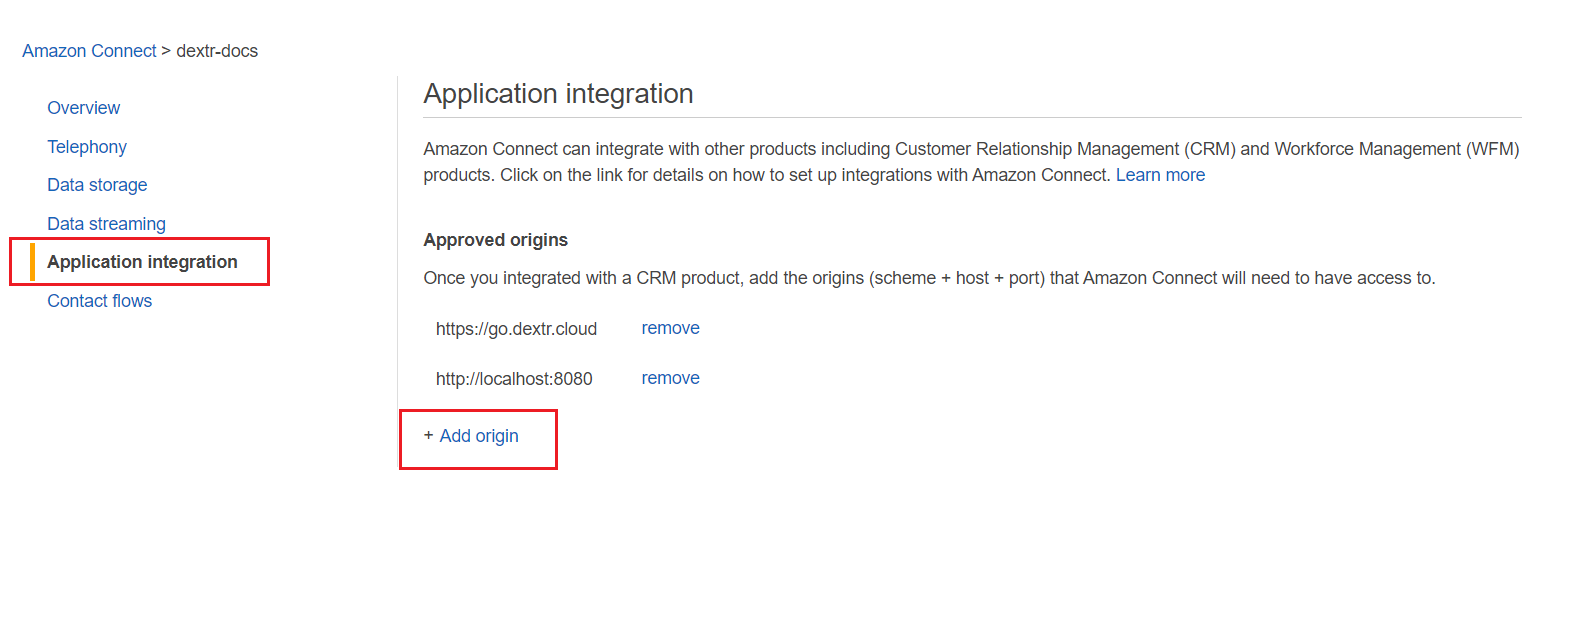
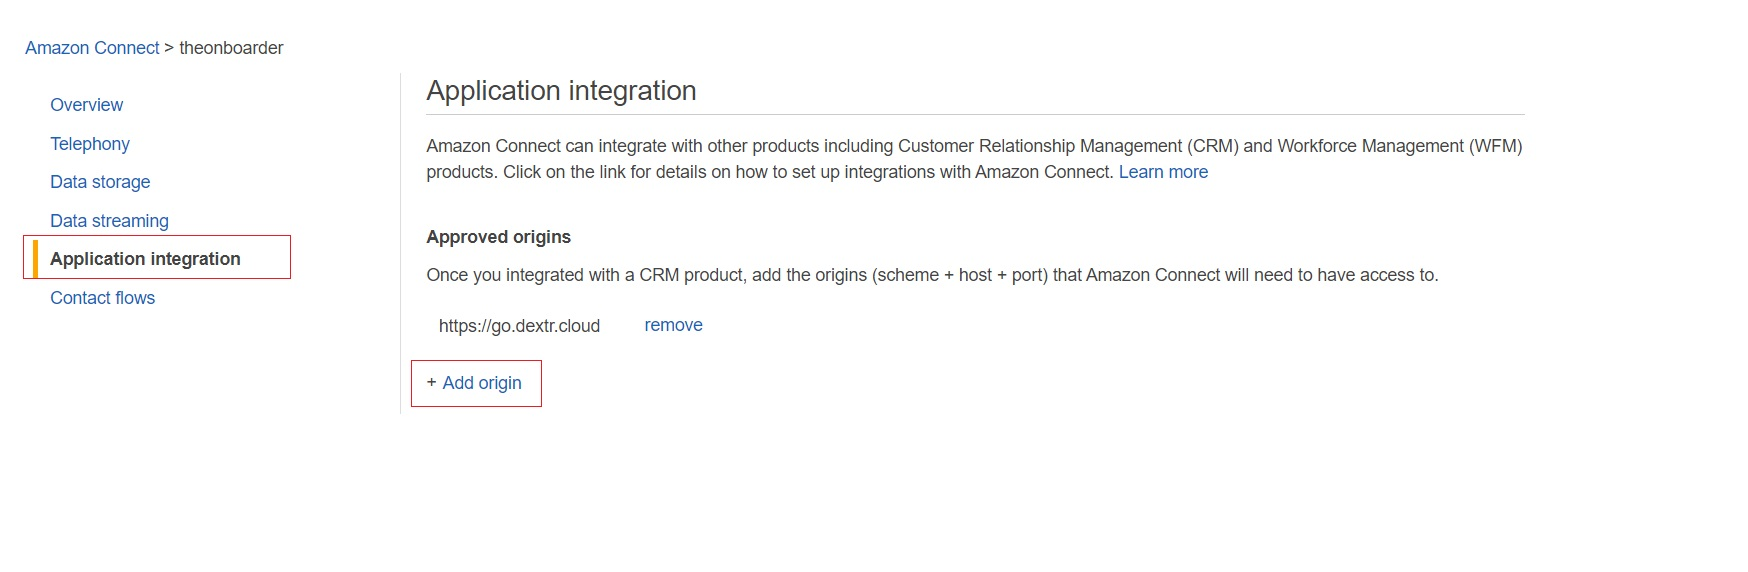
updated onboarding docs

diff --git a/docs/_pages/onboarding.md b/docs/_pages/onboarding.md
@@ -8,116 +8,111 @@ sidebar:
   nav: "docs"
 ---
 
-After your email has been verified, you'll be redirected to the Onboarding portal in order to claim the instance and start your Call Center.
+After your subscription to Dextr, you'll be redirected to the Onboarding portal in order to claim your instance.
 
-[![Onboarding Portal](/assets/images/onboarding-portal.png)](/assets/images/onboarding-portal.png)
+[![Onboarding Portal](/assets/images/newOnboarding.jpg)](/assets/images/newOnboarding.jpg)
 
 ----
-Here, you can see that the Onboarding process consists of 2 steps:
-1. Verify Ownership
-2. Claim instance
+The Onboarding process consists of 5 steps, and the first 3 steps have an ***Explainer video*** that you can watch for guidance.
 
 ### Step 1. Verify Ownership
 
-Verify ownership consists of 2 steps. The first one would be to whitelist https://go.dextr.cloud . The second one is to login in Connect as an administrator.
+Verify ownership requires you to add ***Application integration origin***  and ***Login into Connect as Root Administrator***. Remember to also whitelist https://go.dextr.cloud to allow incoming popups.
 
-#### Step 1.1 - Whitelisting the page
+[![Verify Ownership](/assets/images/verifyOwnership.jpg)](/assets/images/verifyOwnership.jpg)
 
-- When whitelisting dextr.cloud you're allowing incoming popups, which is important since they will be used to claim the instance and use other features. 
+#### Step 1.1 - Application integration
 
-- You also need to add an Approved origin in Amazon Connect. Through the Amazon Web Service console, you can enter Amazon Connect, click the name of your instance and then go to the **Application Integration** tab, in which you can add an approved origin. When the modal window is displayed, type **https://go.dextr.cloud** and click the add button. After a few seconds the origin should be added.
+You require an ***Approved origin*** in Amazon Connect. Through the Amazon Web Service console:
+
+- Go to Amazon Connect and click the name of your instance.
+[![Clicking Instance](/assets/images/clickingInstance.jpg)](/assets/images/clickingInstance.jpg)
+
+- Go to the **Application Integration** tab and click ***Add origin***. Input **https://go.dextr.cloud** and add it.
 
 [![Application Integration](/assets/images/app-integration.png)](/assets/images/app-integration.png)
    
 ----
-#### Step 1.2 - Login in Amazon Connect as Administrator
+#### Step 1.2 - Log into Amazon Connect as Root Administrator
 
-In the Overview tab an option to Login as Administrator will be shown.
+- In the Overview tab, click ***Log in for emergency access***.
 
 [![Login As Administrator](/assets/images/connect-login.png)](/assets/images/connect-login.png)
 
 ----
-After clicking the Login button, if you still haven't claimed a number you'll be redirected to the **Claim Phone Number** section, where you'll need to select a country, type and phone number. For onboarding purposes you can omit the first call process shown through the CCP (Contact Control Panel) but you need to claim a phone number if you want to set up Data Stream during the Claim Instance process in **Step 2**.
+- This will bring you to the **Amazon Connect Dashboard**. If you still haven't claimed a number remember to do so in the **Claim Phone Number** section, where you'll need to select a country, type and phone number. This allows to set Data Streaming later.
 
 [![Claim Phone Number](/assets/images/administrator-first-login.png)](/assets/images/administrator-first-login.png)
-
-----
-If you already claimed a phone number, then login as Administrator will redirect you to the **Amazon Connect Dashboard**.
-
-[![Amazon Connect Dashboard](/assets/images/claimed-number-login.png)](/assets/images/claimed-number-login.png)
-
 ----
 
-Lastly, after having a tab open with your Amazon Connect dashboard (logged as Administrator) and having whitelisted go.dextr.cloud, you can type your Instance Alias and click the Verify button. When the status changes to verified, you can proceed and claim the Instance.
+- After adding ***Application origin*** and being logged as ***Root Administrator*** , type your Instance Alias and click the Verify button, which will grant you the ***Verified*** status.
 
-[![Verified Status](/assets/images/verified-ownership.png)](/assets/images/verified-ownership.png)
+
+[![Verified Status](/assets/images/verifiedOwnership.jpg)](/assets/images/verifiedOwnership.jpg)
 
 ----
 
-### Step 2. Claim Instance
+### Step 2. Grant Access
 
-After clicking the Claim Instance button, a modal window will pop up prompting you to go through 6 steps.
+The second step is granting access by deploying support resources. 
 
-#### Step 2.1 - Company Name
+[![Grant Access](/assets/images/grantAccess.jpg)](/assets/images/grantAccesss.jpg)
 
-- Type the name of your company.
-
-[![Company Name](/assets/images/step1.png)](/assets/images/step1.png)
-
-----
-
-#### Step 2.2 - Landing Page
-- In this step you type the URL where users will be able to access your portal after the onboarding process is finished.
-
-[![Landing Page](/assets/images/step2.png)](/assets/images/step2.png)
-
-----
-
-#### Step 2.3 - Grant Access 
-
-- In order to grant access, we must first deploy a few resources in the AWS environment. When clicking the Deploy Resources button, you'll redirected to AWS in order to create a Stack. After the Stack is created you'll have to wait for some Events to finish deployment and for the Output tab to have both your Access and Secret keys. This might take a few minutes, but when AWS gives you both keys in the **Ouput** tab of your Stack, you can copy it then paste them into their respective field in the Onboarding modal window.
+- Click **Deploy Resources**.
+- You'll be redirected to AWS console to create a stack. Create it by scrolling down, check ***I acknowledge that AWS CloudFormation might create IAM resources with custom names*** and click ***Create stack***.
 
 {% include figure image_path="/assets/images/deploy-resources.gif" alt="Deploy Resources"%}
 
-----
+- After waiting a few moments the option to **Validate** will be unlocked. Click to proceed and get the **Deployed** status.
 
-- After pasting both keys, you can verify credentials and proceed forward to the next step.
+[![Grant Access](/assets/images/deployed.jpg)](/assets/images/deployed.jpg)
 
-[![Credentials verified](/assets/images/credentials-verified.png)](/assets/images/credentials-verified.png)
+### Step 3. Data Streaming
 
-----
+In this step you can export Contact Tracer Records (CTRs) and Agent Events to perform analysis on your data. You can do so by enabling data streaming in the **Data Streaming** tab in Amazon Connect for both CTR and Agent Events. From Amazon Connect:
 
-#### Step 2.4 - Data Stream
+- Click Data Streaming TAB.
+- Check **Enable Data Streaming**.
+- Mark **Kinesis Stream**.
+- In the dropdown choose: "dextr-yourInstanceAlias-connectStream" both for Contact Trace Records and Agent Events.
+- Click **Save**.
 
-- In this step you can export Contact Tracer Records (CTRs) and Agent Events to perform analysis on your data. You can do so by enabling data streaming in the **Data Streaming** tab in Amazon Connect, then set a Kinesis stream with your InstanceID for both CTR and Agent Events. If you'd like you could also create a new [Kinesis Stream](https://docs.aws.amazon.com/streams/latest/dev/introduction.html).
+The connection will be set automatically as soon as you start making calls and interacting with other Agents (e.g. Agent chat). 
 
-[![Kinesis Stream](/assets/images/step4.png)](/assets/images/step4.png)
-
-----
-After setting up the Data Stream in Amazon Connect, you can click the Generate Data button from the onboarding process, get the Connected status and proceed to the next step. If you don't want to set up Data Streaming, you can skip this step and proceed to Step 5.
-
-[![Connected Stream](/assets/images/connected-step4.png)](/assets/images/connected-step4.png)
-
-----
-
-#### Step 2.5 - Choosing Timezone and Directory
-
-- You can set a Timezone and Directory for your Instance. This is important as this is the time that will be displayed when creating Events through the Hours of Operation tab in the Settings Dashboard from Dextr.
-
-[![Timezone](/assets/images/step5.png)](/assets/images/step5.png)
+[![Kinesis Stream](/assets/images/dataStreaming.jpg)](/assets/images/dataStreaming.jpg)
 
 ----
 
-#### Step 2.6 - Review and Confirm
+### Step 4. Info & Preferences
 
-- You'll be shown a summary of all the data that was chosen in the Onboarding process. You can always go to a previous step to change the data. 
+In this step you're required to fill 5 obligatory fields in order to proceed to the next step. These are:
 
-[![Summary](/assets/images/step6.png)](/assets/images/step6.png)
+- Choose a product tier (if you want to select 30 day Free trial, Dextr Voice Only or Dextr OmniChannel plan).
+- Write the name of your Company.
+- Write the Login URL.
+- Choose a Timezone.
+- Choose directory (If Local or SAML).
+
+You also have the option to set Track Usage location.
+
+[![Info&Preference](/assets/images/info&preferences.jpg)](/assets/images/info&preferences.jpg)
 
 ----
-After this, you can click the **Go to Dashboard** button and you'll be redirected to your Call center as the Instance administrator.
 
-[![Instance Admin Login](/assets/images/IA-login.png)](/assets/images/IA-login.png)
+### Step 5 - Review and Confirm
+
+- You'll be shown a summary of all the data that was chosen in the Onboarding process. You can always go back to a previous step to confirm and change the data you chose in Step 4. 
+
+[![Summary](/assets/images/reviewConfirm.jpg)](/assets/images/reviewConfirm.jpg)
+
+----
+After this, you can click the **Finish** button and you'll be redirected to the dashboard. Click Login, which will redirect you to the Login URL of your company and then click **Secure Login** . 
+
+[![Secure Login](/assets/images/onboarder.jpg)](/assets/images/onboarder.jpg)
+
+And That's it! You have now logged in as the Instance Admin and can start using Dextr.
+
+[![Instance Admin Login](/assets/images/IA-login.jpg)](/assets/images/IA-login.jpg)
 
 <style>
    h4 {
